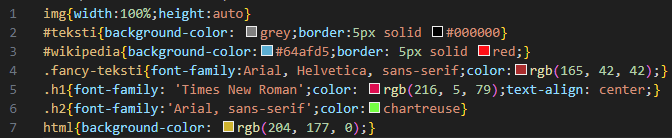
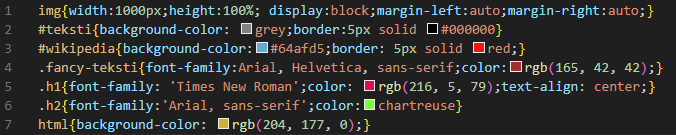
Add files via upload

diff --git a/eka-sivuni/koodi.css b/eka-sivuni/koodi.css
@@ -1,4 +1,4 @@
-img{width:100%;height:auto}
+img{width:1000px;height:100%; display:block;margin-left:auto;margin-right:auto;}
 #teksti{background-color: grey;border:5px solid #000000}
 #wikipedia{background-color:#64afd5;border: 5px solid red;}
 .fancy-teksti{font-family:Arial, Helvetica, sans-serif;color:rgb(165, 42, 42);}
